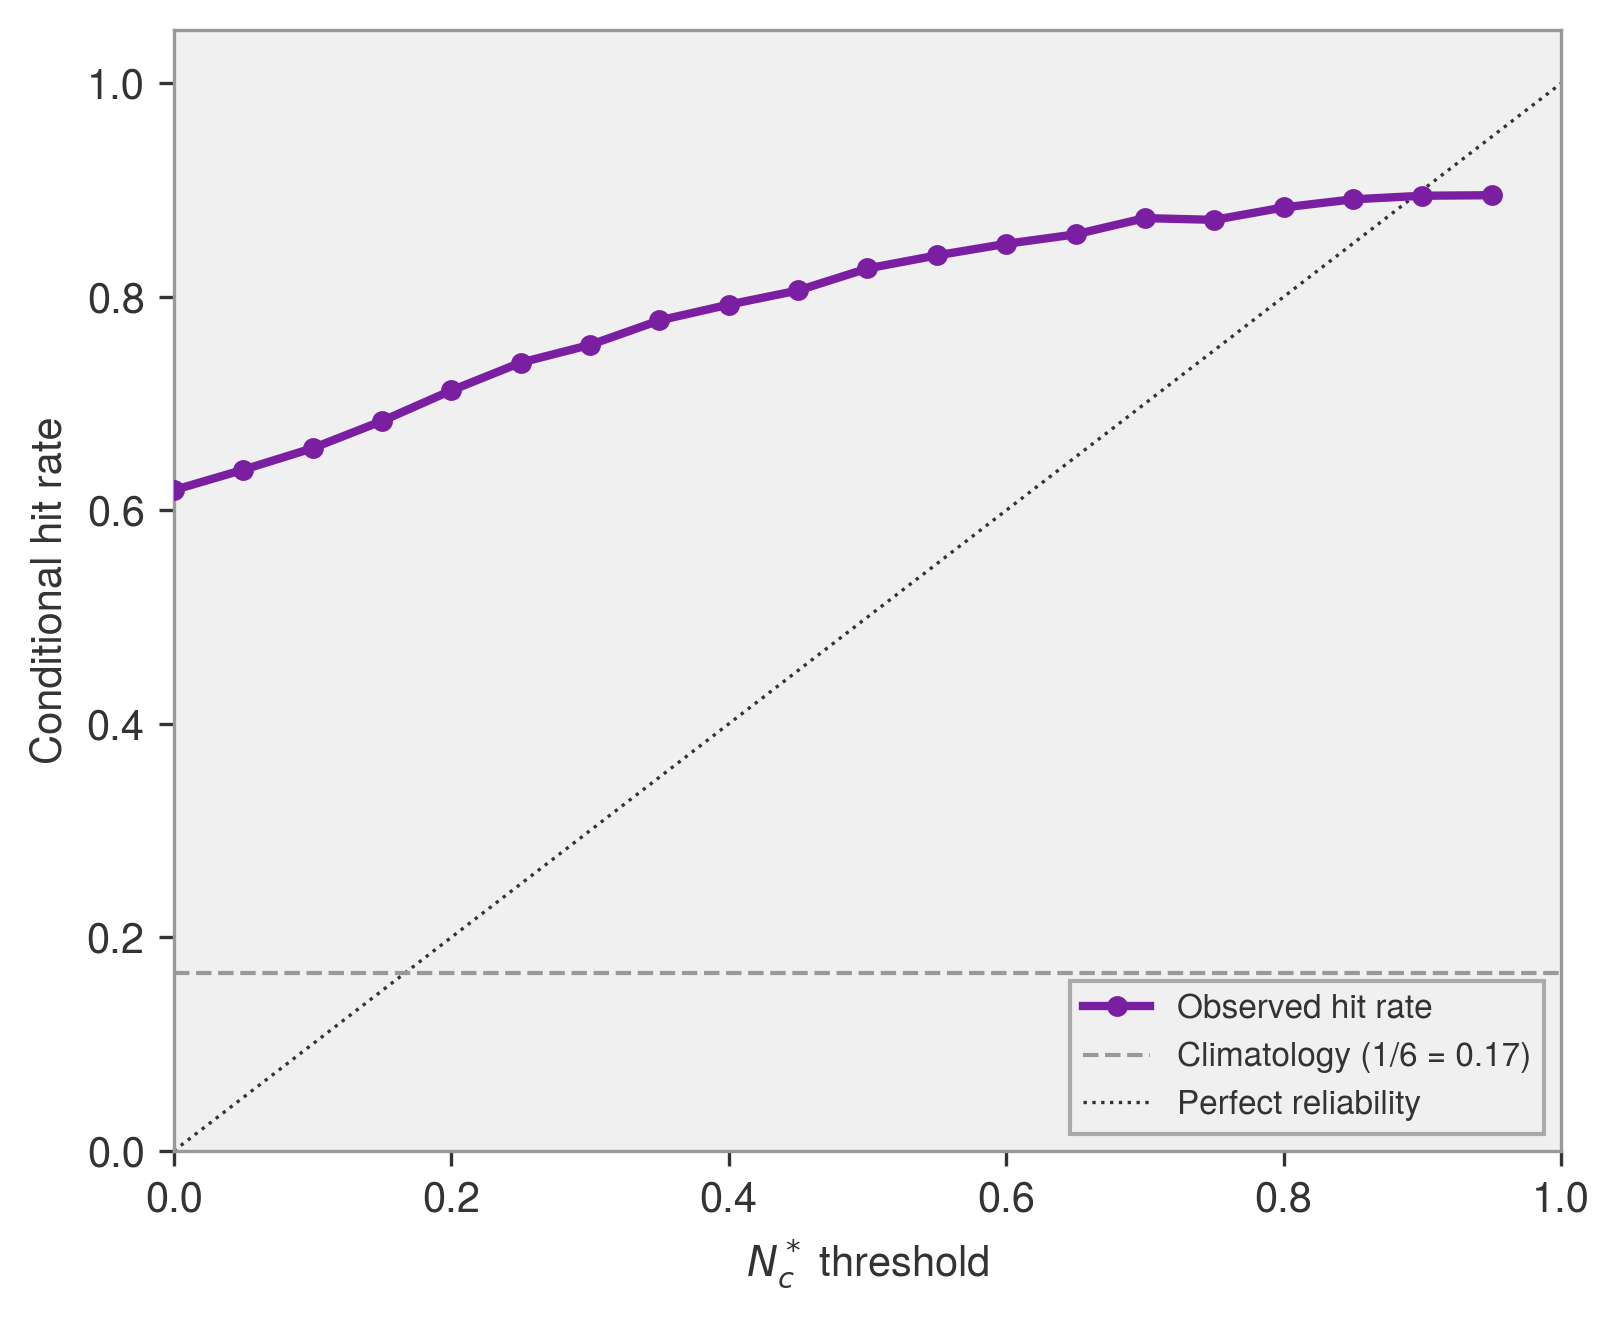
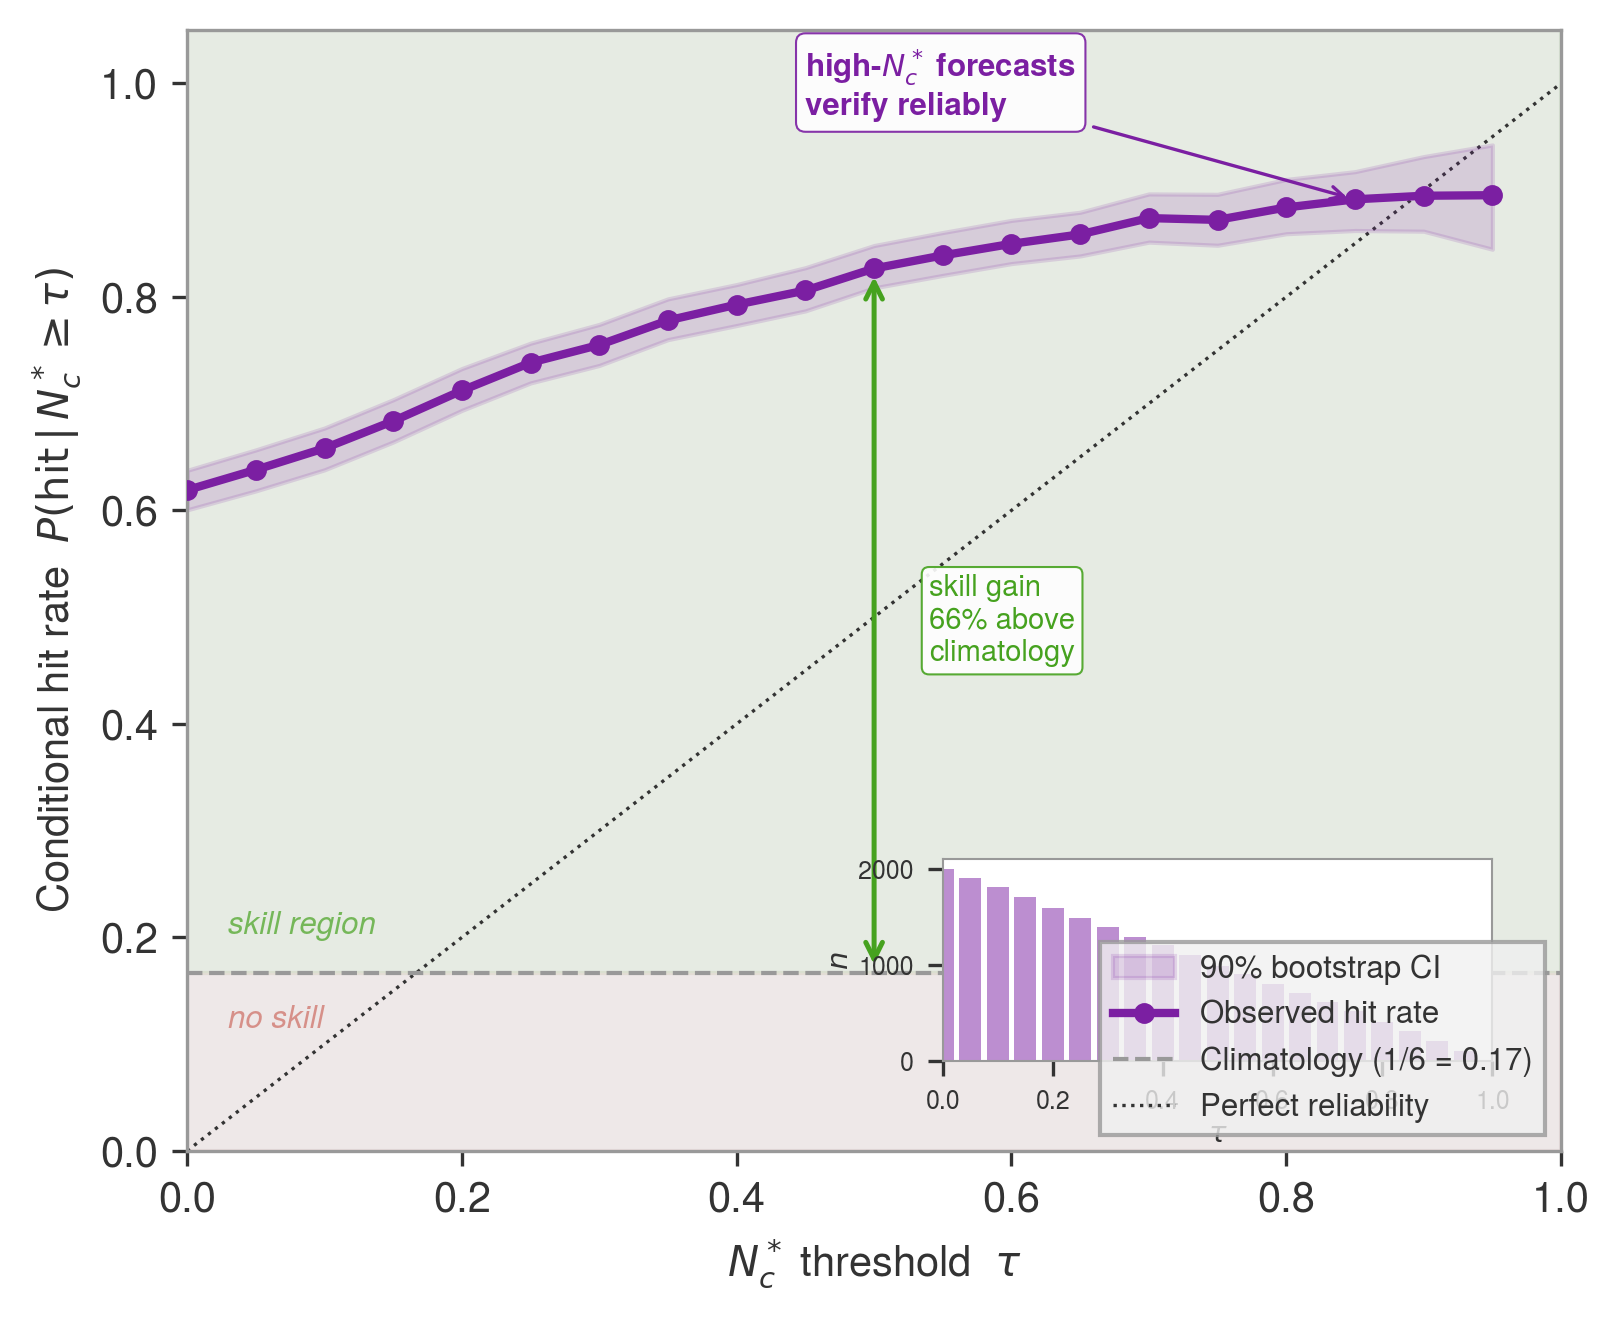
Supercharge reliability curve with CI band, inset, and annotations
Bootstrap 90% confidence band, green/red skill-region shading,
sample-size inset, skill-gain arrow, and high-Nc annotation.

diff --git a/scripts/fig_reliability_curves.py b/scripts/fig_reliability_curves.py
@@ -1,13 +1,15 @@
-"""Figure 6 (PDF order): Reliability-style curve for possibilistic specificity.
+"""Figure 6 (PDF order): Reliability of conditional necessity.
 
 x-axis: N_c threshold (0 to 1).
 y-axis: Conditional hit rate — fraction of forecasts whose N_c exceeds
         the threshold and for which the correct category verified.
-A purple curve, a horizontal climatological base-rate line (1/5),
-and a diagonal perfect-reliability reference.
+
+Enhanced with bootstrap confidence band, skill-region shading,
+sample-size inset, and interpretive annotations.
 """
 import numpy as np
 import matplotlib.pyplot as plt
+from matplotlib.patches import FancyArrowPatch
 
 from style import (
     apply_style, save_fig,
@@ -38,6 +40,24 @@ def _generate_synthetic_data(n_forecasts=2000, seed=42):
     return Nc, hits
 
 
+def _bootstrap_ci(Nc_vals, hits, thresholds, n_boot=500, seed=99):
+    """Compute 90% bootstrap confidence intervals for conditional hit rate."""
+    rng = np.random.default_rng(seed)
+    n = len(Nc_vals)
+    boot_curves = np.empty((n_boot, len(thresholds)))
+
+    for b in range(n_boot):
+        idx = rng.choice(n, size=n, replace=True)
+        nc_b, h_b = Nc_vals[idx], hits[idx]
+        for j, t in enumerate(thresholds):
+            mask = nc_b >= t
+            boot_curves[b, j] = h_b[mask].mean() if mask.sum() > 0 else np.nan
+
+    lo = np.nanpercentile(boot_curves, 5, axis=0)
+    hi = np.nanpercentile(boot_curves, 95, axis=0)
+    return lo, hi
+
+
 def main():
     apply_style()
 
@@ -54,27 +74,85 @@ def main():
         counts[j] = n
         cond_hit[j] = hits[mask].mean() if n > 0 else np.nan
 
+    # Bootstrap confidence interval
+    ci_lo, ci_hi = _bootstrap_ci(Nc_vals, hits, thresholds)
+
+    base = 1.0 / SPC_N
+
     fig, ax = plt.subplots(figsize=(5.5, 4.5))
 
-    # Reliability curve
-    ax.plot(thresholds, cond_hit, color=PURPLE, linewidth=2.0, marker="o",
-            markersize=4, zorder=3, label="Observed hit rate")
+    # --- Skill region: shade above climatology ---
+    ax.axhspan(base, 1.05, color=GREEN, alpha=0.06, zorder=0)
+    ax.axhspan(0, base, color="#C0392B", alpha=0.04, zorder=0)
+    ax.text(0.03, base + 0.03, "skill region",
+            fontsize=7.5, fontstyle="italic", color=GREEN, alpha=0.7,
+            va="bottom")
+    ax.text(0.03, base - 0.03, "no skill",
+            fontsize=7.5, fontstyle="italic", color="#C0392B", alpha=0.5,
+            va="top")
 
-    # Climatological base rate
-    base = 1.0 / SPC_N
-    ax.axhline(base, linestyle="--", linewidth=1.0, color=MID_GREY, zorder=2,
+    # --- Bootstrap confidence band ---
+    ax.fill_between(thresholds, ci_lo, ci_hi, color=PURPLE, alpha=0.15,
+                    zorder=2, label="90% bootstrap CI")
+
+    # --- Reliability curve ---
+    ax.plot(thresholds, cond_hit, color=PURPLE, linewidth=2.0, marker="o",
+            markersize=4, zorder=4, label="Observed hit rate")
+
+    # --- Climatological base rate ---
+    ax.axhline(base, linestyle="--", linewidth=1.0, color=MID_GREY, zorder=3,
                label=f"Climatology (1/{SPC_N} = {base:.2f})")
 
-    # Perfect reliability diagonal
+    # --- Perfect reliability diagonal ---
     ax.plot([0, 1], [0, 1], linestyle=":", linewidth=0.8, color=DARK_GREY,
             zorder=1, label="Perfect reliability")
 
-    ax.set_xlabel(r"$N_c^*$ threshold", fontsize=10)
-    ax.set_ylabel("Conditional hit rate", fontsize=10)
+    # --- Interpretive annotations ---
+    # Annotate the gap between curve and climatology at a mid threshold
+    t_mid = 0.50
+    idx_mid = np.argmin(np.abs(thresholds - t_mid))
+    hr_mid = cond_hit[idx_mid]
+    ax.annotate(
+        "",
+        xy=(t_mid, base), xytext=(t_mid, hr_mid),
+        arrowprops=dict(arrowstyle="<->", color=GREEN, lw=1.2),
+    )
+    ax.text(t_mid + 0.04, (base + hr_mid) / 2,
+            f"skill gain\n{hr_mid - base:.0%} above\nclimatology",
+            fontsize=7, color=GREEN, va="center",
+            bbox=dict(boxstyle="round,pad=0.25", fc="white", ec=GREEN,
+                      lw=0.5, alpha=0.9))
+
+    # Annotate the high-confidence region
+    ax.annotate(
+        "high-$N_c^*$ forecasts\nverify reliably",
+        xy=(0.85, cond_hit[-3]), xytext=(0.45, 0.97),
+        fontsize=7.5, fontweight="bold", color=PURPLE,
+        arrowprops=dict(arrowstyle="->", color=PURPLE, lw=0.8),
+        bbox=dict(boxstyle="round,pad=0.3", fc="white", ec=PURPLE,
+                  lw=0.5, alpha=0.9),
+    )
+
+    ax.set_xlabel(r"$N_c^*$ threshold  $\tau$", fontsize=10)
+    ax.set_ylabel("Conditional hit rate  "
+                  r"$P(\mathrm{hit}\,|\,N_c^* \geq \tau)$", fontsize=10)
     ax.set_xlim(0, 1)
     ax.set_ylim(0, 1.05)
-    ax.legend(loc="lower right", fontsize=8, frameon=True, fancybox=False,
+    ax.legend(loc="lower right", fontsize=7.5, frameon=True, fancybox=False,
               edgecolor=MID_GREY)
+
+    # --- Inset: sample size per threshold ---
+    ax_inset = ax.inset_axes([0.55, 0.08, 0.40, 0.18])
+    ax_inset.bar(thresholds, counts, width=0.04, color=PURPLE, alpha=0.5,
+                 edgecolor="none")
+    ax_inset.set_ylabel("$n$", fontsize=7, labelpad=1)
+    ax_inset.set_xlabel(r"$\tau$", fontsize=7, labelpad=1)
+    ax_inset.tick_params(labelsize=6)
+    ax_inset.set_xlim(0, 1)
+    ax_inset.set_facecolor("white")
+    for spine in ax_inset.spines.values():
+        spine.set_color(MID_GREY)
+        spine.set_linewidth(0.5)
 
     fig.tight_layout()
     save_fig(fig, "reliability_curves")
